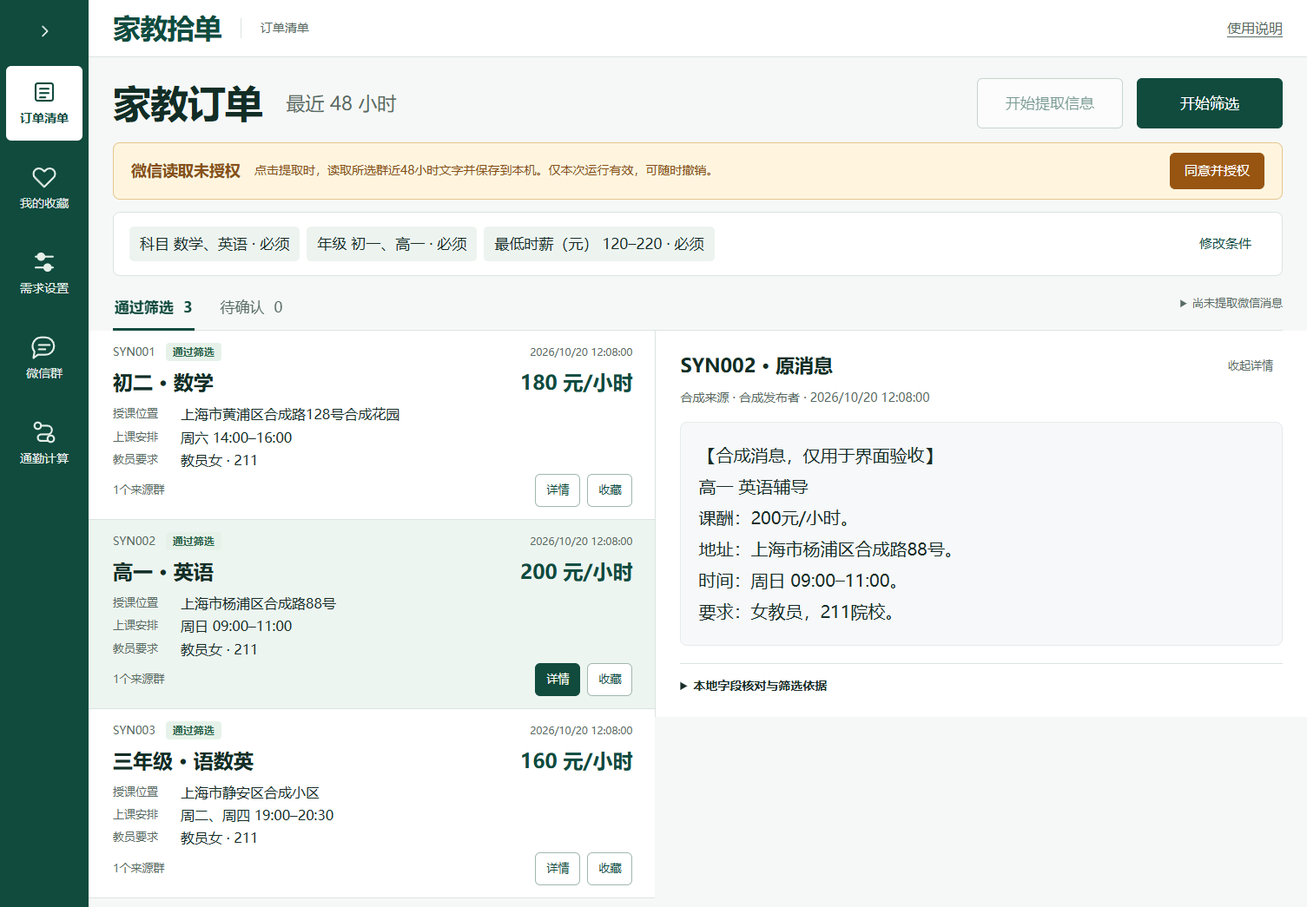
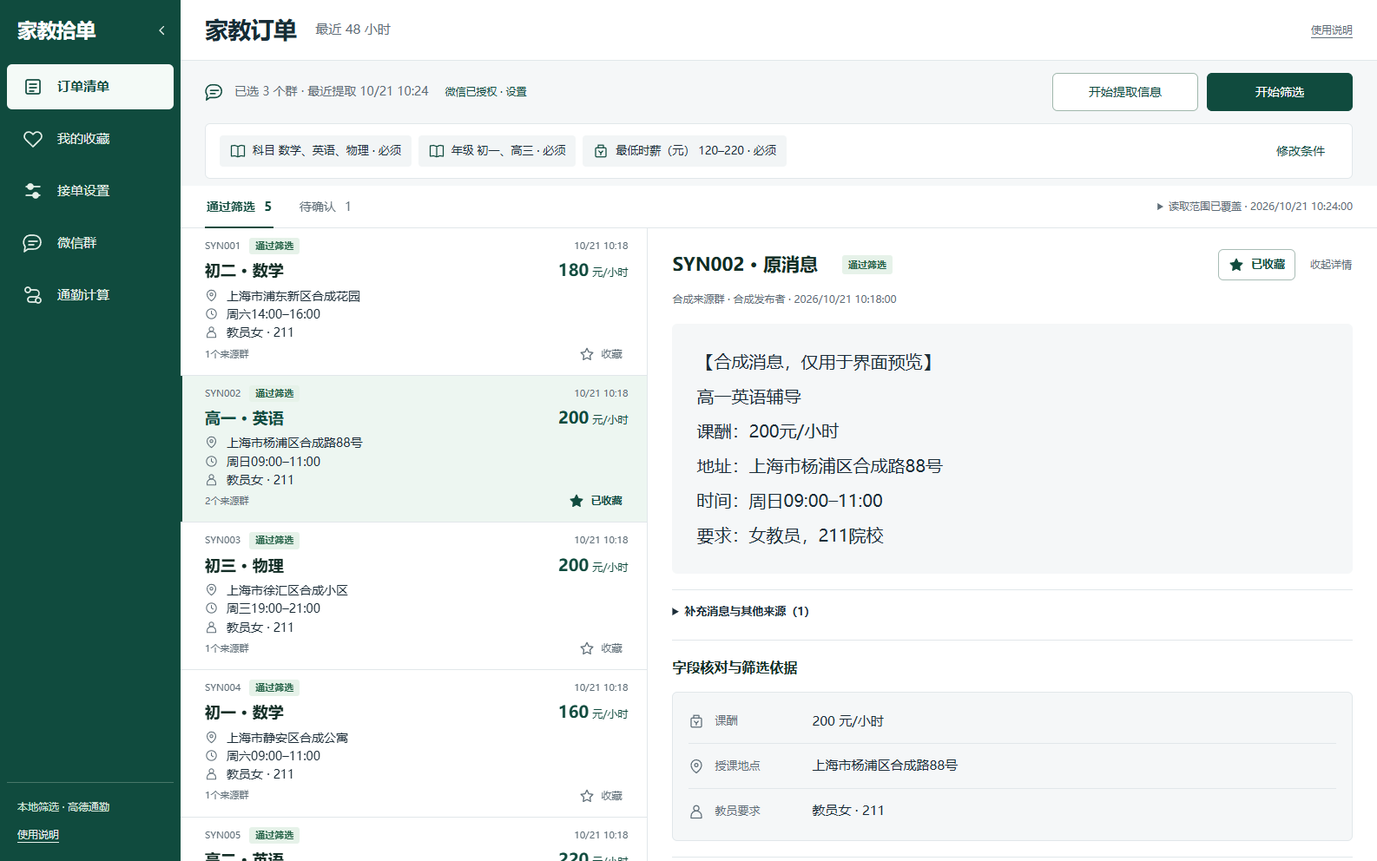
Release v0.2.4-rc.2 with reader-first order workbench

diff --git a/app/static/app.js b/app/static/app.js
@@ -7,7 +7,7 @@ const stateNames={complete:'读取范围已覆盖',incomplete:'采集不完整',
 const readStateName=report=>['complete','incomplete'].includes(report.state)&&(report.count>0||report.groups?.some(g=>g.count>0))?'已读取':(stateNames[report.state]||report.state);
 const messageNames={received:'等待解析',error:'解析失败',unparsed:'此类型未解析',processed:'已解析',ignored:'普通聊天'};
 let state={},view='orders',bucket='matched',data=[],favoriteData=[],selected=null,timer=null;
-let stopping=false,taskStarting=false,taskKind=null,authorizationSaving=false,ordersRequest=0,favoritesRequest=0,stateRequest=0;
+let stopping=false,taskStarting=false,taskKind=null,authorizationSaving=false,ordersRequest=0,favoritesRequest=0,stateRequest=0,wechatSettingsOpen=false;
 const favoriteSaving=new Set();
 let regions=[],regionIndex={},selectedRegions=[],selectedGroups=new Set(),groupCatalog=[],lastCatalog='',groupSaving=false;
 const subjects=['全科','作业辅导','语文','数学','英语','物理','化学','生物','历史','地理','政治','科学'];
@@ -16,6 +16,21 @@ const fact=(order,key)=>order.facts[key]?.value;
 const arr=value=>Array.isArray(value)?value.join('、'):value??'';
 const split=value=>String(value).split(/[,，、;；\n]/).map(x=>x.trim()).filter(Boolean);
 const formatTime=value=>value?new Date(value).toLocaleString('zh-CN',{timeZone:'Asia/Shanghai',hour12:false}):'发布时间待确认';
+const compactTime=value=>value?new Date(value).toLocaleString('zh-CN',{timeZone:'Asia/Shanghai',month:'2-digit',day:'2-digit',hour:'2-digit',minute:'2-digit',hour12:false}):'时间待确认';
+function uiIcon(name){
+  const paths={location:'<path d="M20 10c0 6-8 12-8 12S4 16 4 10a8 8 0 1 1 16 0Z"/><circle cx="12" cy="10" r="2.5"/>',clock:'<circle cx="12" cy="12" r="9"/><path d="M12 7v5l3 2"/>',person:'<circle cx="12" cy="7" r="4"/><path d="M4 22v-3a8 8 0 0 1 16 0v3Z"/>',star:'<path d="m12 3 2.8 5.8 6.4.9-4.6 4.5 1.1 6.4-5.7-3-5.7 3 1.1-6.4-4.6-4.5 6.4-.9Z"/>',book:'<path d="M12 5C9 3 5 3 2 4v16c3-1 7-1 10 1 3-2 7-2 10-1V4c-3-1-7-1-10 1v16"/>',pay:'<rect x="4" y="7" width="16" height="14" rx="2"/><path d="M8 7V3h8v4M9 12l3 3 3-3M12 15v3"/>',filter:'<path d="M3 5h18l-7 8v7l-4-2v-5Z"/>'};
+  return '<svg class="ui-icon" viewBox="0 0 24 24" fill="none" stroke="currentColor" stroke-width="1.7" stroke-linecap="round" stroke-linejoin="round" aria-hidden="true">'+(paths[name]||paths.book)+'</svg>';
+}
+function favoriteButton(order){
+  const enabled=Boolean(order.favorite_at),label=enabled?'取消收藏':'收藏';
+  return '<button type="button" class="favorite-button" data-favorite="'+esc(order.id)+'" data-enabled="'+!enabled+'" aria-pressed="'+enabled+'" aria-label="'+label+'订单 '+esc(order.reference||'无单号')+'" title="'+label+'"'+(state.busy||taskStarting||favoriteSaving.has(order.id)?' disabled':'')+'>'+uiIcon('star')+(enabled?'已收藏':'收藏')+'</button>';
+}
+function priceMarkup(order){
+  for(const [key,unit] of [['hourly_rate','元/小时'],['lesson_rate','元/次'],['monthly_rate','元/月']]){
+    if(fact(order,key)!=null)return esc(pretty(fact(order,key)))+'<span class="money-unit">'+unit+'</span>';
+  }
+  return esc(price(order));
+}
 function syncTabs(){
   $$('[data-bucket]').forEach(b=>{
     const active=b.dataset.bucket===bucket;
@@ -64,6 +79,9 @@ async function action(fn,button){
 function savedCounts(){return state.selected_counts||state.counts||{}}
 function renderWeChatAuthorization(){
   const authorized=state.wechat_authorization?.authorized===true;
+  $('#wechat-settings-toggle').hidden=!authorized;
+  $('#wechat-settings-toggle').setAttribute('aria-expanded',String(wechatSettingsOpen));
+  $('#wechat-authorization').hidden=!['orders','groups'].includes(view)||(view==='orders'&&authorized&&!wechatSettingsOpen);
   $('#wechat-authorization').classList.toggle('warn',!authorized);
   $('#wechat-authorization-status').textContent=authorized?'微信已授权 · 仅本次运行':'微信读取未授权';
   $('#connection').hidden=!authorized;
@@ -131,7 +149,10 @@ async function refreshState(){
 }
 function renderSummary(){
   const rules=state.preferences?.rules||[];
-  $('#rule-summary').innerHTML=rules.length?rules.map(r=>'<span class="chip">'+esc(names[r.field]||r.field)+' '+esc(r.field==='location'?r.value.map(code=>regionIndex[code]?.label||code).join('、'):pretty(r.value))+' · '+(r.mode==='must'?'必须':'优先')+'</span>').join(''):'<span class="muted">尚未设置需求</span>';
+  const ruleIcon=field=>field==='location'?'location':field.endsWith('_rate')?'pay':field==='subject'||field==='grade'?'book':'filter';
+  $('#rule-summary').innerHTML=rules.length?rules.map(r=>'<span class="chip">'+uiIcon(ruleIcon(r.field))+'<span>'+esc(names[r.field]||r.field)+' '+esc(r.field==='location'?r.value.map(code=>regionIndex[code]?.label||code).join('、'):pretty(r.value))+' · '+(r.mode==='must'?'必须':'优先')+'</span></span>').join(''):'<span class="muted">尚未设置需求</span>';
+  const latest=state.scans?.[0];
+  $('#source-context-text').textContent=state.groups?.length?'已选 '+state.groups.length+' 个群'+(latest?.end?' · 最近提取 '+compactTime(latest.end):' · 尚未提取信息'):'尚未选择微信群';
 }
 function renderScans(){
   const scan=state.scans?.[0];
@@ -159,8 +180,8 @@ async function setWeChatAuthorization(authorized){
   }finally{authorizationSaving=false;syncTaskControls()}
 }
 const sidebarMedia=window.matchMedia('(max-width:650px)');
-let sidebarCollapsed=true;
-try{sidebarCollapsed=localStorage.getItem('tutor-sidebar-collapsed')!=='0'}catch{}
+let sidebarCollapsed=false;
+try{sidebarCollapsed=localStorage.getItem('tutor-sidebar-collapsed')==='1'}catch{}
 function syncSidebarLayout(){
   const mobile=sidebarMedia.matches;
   $('.app-shell').classList.toggle('sidebar-collapsed',!mobile&&sidebarCollapsed);
@@ -214,11 +235,13 @@ setSidebarOpen(false);
 async function go(next){
   if(!['orders','favorites','preferences','groups','travel'].includes(next))next='orders';
   view=next;selected=null;
-  $('#page-context').textContent={orders:'订单清单',favorites:'我的收藏',preferences:'需求设置',groups:'微信群',travel:'通勤计算'}[next];
+  $('#page-context').textContent={orders:'家教订单',favorites:'我的收藏',preferences:'接单设置',groups:'微信群',travel:'通勤计算'}[next];
+  $('#page-subtitle').hidden=next!=='orders';
   const activeView=$('#view-'+next),heading=activeView.querySelector('.heading-row')||activeView.querySelector('h1');
   if(['orders','groups'].includes(next))heading.insertAdjacentElement('afterend',$('#wechat-authorization'));
   if(['travel','favorites'].includes(next))heading.insertAdjacentElement('afterend',$('#travel-authorization'));
   $('#wechat-authorization').hidden=!['orders','groups'].includes(next);
+  renderWeChatAuthorization();
   $('#travel-authorization').hidden=!['travel','favorites'].includes(next);
   setSidebarOpen(false);
   $$('.view').forEach(el=>el.hidden=el.id!=='view-'+next);
@@ -249,14 +272,14 @@ function teachingLocation(order){
 }
 function table(orders,favorites=false){
   return '<div class="order-list" aria-label="'+(favorites?'收藏订单':'订单列表')+'">'+orders.map(o=>{
-    const match=o.match;
-    const changed=match.bucket==='rejected';
+    const match=o.match,changed=match.bucket==='rejected';
     const badge=o.status==='closed'?'已出 / 已结束':o.expired?'已超过48小时':changed?'不符合当前条件':match.bucket==='matched'?'通过筛选':'待确认';
     const issues=changed?[o.status==='closed'?'原消息标明此单已出或已结束':'当前条件已变化，请重新核对',...match.conflicts]:match.unknowns;
-  const sources=new Set(o.sources.map(s=>s.group)).size;
+    const sources=new Set(o.sources.map(s=>s.group)).size;
     const locationNote=match.location_status==='unconfirmed'?'<span class="cell-sub attention-text">地区待核对 · 尚未通过</span>':'';
     const secondary=[fact(o,'weekly_sessions')!=null?pretty(fact(o,'weekly_sessions'))+'次/周':'',fact(o,'duration_hours')!=null?pretty(fact(o,'duration_hours'))+'小时/次':''].filter(Boolean).join(' · ');
-    return '<article class="order-item'+(selected===o.id?' selected':'')+'" data-order-row="'+esc(o.id)+'"><div class="order-meta"><span class="reference">'+esc(o.reference||'未提供单号')+'</span><span class="badge '+(match.bucket==='matched'&&!o.expired&&o.status!=='closed'?'':'pending')+'">'+esc(badge)+'</span><time>'+esc(formatTime(o.updated_at))+'</time></div><div class="order-title"><h2>'+esc(title(o))+'</h2><strong class="money">'+esc(price(o))+'</strong></div><dl class="order-facts"><div><dt>授课位置</dt><dd class="teaching-location">'+esc(teachingLocation(o))+locationNote+'</dd></div><div><dt>上课安排</dt><dd>'+esc(fact(o,'schedule')?pretty(fact(o,'schedule')):'具体时段待核对')+(secondary?'<span class="cell-sub">'+esc(secondary)+'</span>':'')+'</dd></div><div><dt>教员要求</dt><dd>'+esc(requirements(o))+'</dd></div></dl>'+(fact(o,'focus_subjects')?'<p class="cell-sub">侧重'+esc(arr(fact(o,'focus_subjects')))+'</p>':'')+(issues.length||o.expired?'<p class="order-issues">'+esc([o.expired?'已超过48小时，请确认是否仍可接单':'',...issues].filter(Boolean).join('；'))+'</p>':'')+(o.favorite_at?(window.TutorTravel?.summary(o.id)||''):'')+'<div class="order-bottom"><span class="cell-sub">'+esc([fact(o,'student_gender')?'学员'+fact(o,'student_gender'):'',fact(o,'students_count')?fact(o,'students_count')+'名学员':'',sources+'个来源群',o.possible_duplicates.length?'有疑似重复单':''].filter(Boolean).join(' · '))+'</span><div class="cell-actions"><button data-detail="'+esc(o.id)+'" data-favorites="'+favorites+'" aria-expanded="'+(selected===o.id)+'">详情</button>'+(favorites&&o.favorite_at?'<button data-travel-open="'+esc(o.id)+'" data-travel-favorites="true">计算通勤</button>':'')+'<button data-favorite="'+esc(o.id)+'" data-enabled="'+!o.favorite_at+'"'+(state.busy||taskStarting?' disabled':'')+'>'+(o.favorite_at?'取消收藏':'收藏')+'</button></div></div></article>';
+    const detail='<button type="button" class="order-open" data-detail="'+esc(o.id)+'" data-favorites="'+favorites+'" aria-expanded="'+(selected===o.id)+'" aria-label="查看 '+esc(o.reference||'无单号')+' '+esc(title(o))+' 原文">'+esc(title(o))+'</button>';
+    return '<article class="order-item'+(selected===o.id?' selected':'')+'" data-order-row="'+esc(o.id)+'"><div class="order-meta"><span class="reference">'+esc(o.reference||'未提供单号')+'</span><span class="badge '+(match.bucket==='matched'&&!o.expired&&o.status!=='closed'?'':'pending')+'">'+esc(badge)+'</span><time title="'+esc(formatTime(o.updated_at))+'">'+esc(compactTime(o.updated_at))+'</time></div><div class="order-title"><h2>'+detail+'</h2><strong class="money">'+priceMarkup(o)+'</strong></div><dl class="order-facts"><div><dt>'+uiIcon('location')+'<span class="sr-only">授课位置</span></dt><dd class="teaching-location">'+esc(teachingLocation(o))+locationNote+'</dd></div><div><dt>'+uiIcon('clock')+'<span class="sr-only">上课安排</span></dt><dd>'+esc(fact(o,'schedule')?pretty(fact(o,'schedule')):'具体时段待核对')+(secondary?'<span class="cell-sub">'+esc(secondary)+'</span>':'')+'</dd></div><div><dt>'+uiIcon('person')+'<span class="sr-only">教员要求</span></dt><dd>'+esc(requirements(o))+'</dd></div></dl>'+(fact(o,'focus_subjects')?'<p class="cell-sub">侧重'+esc(arr(fact(o,'focus_subjects')))+'</p>':'')+(issues.length||o.expired?'<p class="order-issues">'+esc([o.expired?'已超过48小时，请确认是否仍可接单':'',...issues].filter(Boolean).join('；'))+'</p>':'')+(o.favorite_at?(window.TutorTravel?.summary(o.id)||''):'')+'<div class="order-bottom"><span class="cell-sub">'+esc([fact(o,'student_gender')?'学员'+fact(o,'student_gender'):'',fact(o,'students_count')?fact(o,'students_count')+'名学员':'',sources+'个来源群',o.possible_duplicates.length?'有疑似重复单':''].filter(Boolean).join(' · '))+'</span><div class="cell-actions">'+(favorites&&o.favorite_at?'<button data-travel-open="'+esc(o.id)+'" data-travel-favorites="true">计算通勤</button>':'')+favoriteButton(o)+'</div></div></article>';
   }).join('')+'</div>';
 }
 async function loadOrders(){
@@ -298,11 +321,14 @@ function renderDetail(id,favorites=false,scroll=true){
   target.hidden=false;
   const primary=order.sources.find(source=>!source.is_update)||order.sources[0];
   const rawSource=source=>'<article class="source"><p class="muted">'+esc(source.group)+' · '+esc(source.sender)+' · '+esc(formatTime(source.sent_at))+'</p><div class="raw">'+esc(source.text)+'</div></article>';
-  target.innerHTML='<section class="detail-panel"><div class="heading-row"><h2>'+esc(order.reference||'无单号')+' · 原消息</h2><button data-close-detail="'+(favorites?'favorite':'order')+'">收起详情</button></div>'+caution+'<div class="order-original">'+(primary?rawSource(primary):'<p>原消息暂不可用</p>')+'</div>'+(order.sources.length>1?'<details><summary>补充消息与其他来源（'+(order.sources.length-1)+'）</summary>'+order.sources.filter(source=>source!==primary).map(rawSource).join('')+'</details>':'')+'<details class="local-checks"><summary>本地字段核对与筛选依据</summary><ul>'+match.reasons.map(r=>'<li>'+esc(r)+'</li>').join('')+'</ul>'+'<table class="evidence-table"><thead><tr><th>字段</th><th>值</th><th>原文依据</th></tr></thead><tbody>'+Object.entries(order.facts).map(([key,f])=>'<tr><td>'+esc(state.labels?.[key]||key)+(f.mode==='prefer'?'（偏好）':'')+'</td><td>'+esc(pretty(f.value))+'</td><td>'+esc(f.evidence)+'</td></tr>').join('')+'</tbody></table></details>'+'</section>';
+  const badge=order.status==='closed'?'已出 / 已结束':order.expired?'已超过48小时':match.bucket==='matched'?'通过筛选':match.bucket==='pending'?'待确认':'不符合当前条件';
+  const summary='<dl class="reader-facts"><div><dt>'+uiIcon('pay')+'课酬</dt><dd>'+esc(price(order))+'</dd></div><div><dt>'+uiIcon('location')+'授课地点</dt><dd>'+esc(teachingLocation(order))+'</dd></div><div><dt>'+uiIcon('person')+'教员要求</dt><dd>'+esc(requirements(order))+'</dd></div></dl>';
+  target.innerHTML='<section class="detail-panel"><div class="heading-row"><div class="reader-title"><h2>'+esc(order.reference||'无单号')+' · 原消息</h2><span class="badge '+(match.bucket==='matched'&&!order.expired&&order.status!=='closed'?'':'pending')+'">'+esc(badge)+'</span></div><div class="reader-actions">'+favoriteButton(order)+'<button data-close-detail="'+(favorites?'favorite':'order')+'">收起详情</button></div></div>'+caution+'<div class="order-original">'+(primary?rawSource(primary):'<p>原消息暂不可用</p>')+'</div>'+(order.sources.length>1?'<details><summary>补充消息与其他来源（'+(order.sources.length-1)+'）</summary>'+order.sources.filter(source=>source!==primary).map(rawSource).join('')+'</details>':'')+'<section class="reader-checks" aria-label="字段核对与筛选依据"><h3>字段核对与筛选依据</h3>'+summary+'<details class="local-checks"><summary>查看完整字段与原文依据</summary><ul>'+match.reasons.map(r=>'<li>'+esc(r)+'</li>').join('')+'</ul>'+'<table class="evidence-table"><thead><tr><th>字段</th><th>值</th><th>原文依据</th></tr></thead><tbody>'+Object.entries(order.facts).map(([key,f])=>'<tr><td>'+esc(state.labels?.[key]||key)+(f.mode==='prefer'?'（偏好）':'')+'</td><td>'+esc(pretty(f.value))+'</td><td>'+esc(f.evidence)+'</td></tr>').join('')+'</tbody></table></details></section></section>';
+
   $$('[data-order-row]').forEach(row=>{const active=row.dataset.orderRow===id;row.classList.toggle('selected',active);row.querySelector('[data-detail]')?.setAttribute('aria-expanded',String(active))});
   target.insertAdjacentHTML('beforeend',window.TutorTravel?.detail(id,favorites,Boolean(order.favorite_at))||'');
   if(scroll){
-    if(window.matchMedia('(max-width:1099px)').matches)target.scrollIntoView({behavior:'auto',block:'start'});
+    if(window.matchMedia('(max-width:999px)').matches)target.scrollIntoView({behavior:'auto',block:'start'});
     else target.closest('.order-reader').scrollTop=0;
     const heading=target.querySelector('h2');heading.tabIndex=-1;heading.focus({preventScroll:true});
   }
@@ -396,6 +422,7 @@ async function changeGroups(method,body){
 }
 document.addEventListener('click',event=>{
   const button=event.target.closest('button');if(!button)return;
+  if(button.id==='wechat-settings-toggle'){wechatSettingsOpen=!wechatSettingsOpen;renderWeChatAuthorization();return}
   if(button.dataset.view)return action(()=>go(button.dataset.view),button);
   if(button.dataset.openScan){const panel=$('.scan-panel');panel.open=true;panel.scrollIntoView({block:'nearest'});$('#scan-summary').focus();return}
   if(button.dataset.bucket){bucket=button.dataset.bucket;selected=null;syncTabs();return action(loadOrders)}

diff --git a/app/static/app.css b/app/static/app.css
@@ -14,3 +14,21 @@
 @media(min-width:1100px){h1{font-size:44px}.workspace-brand{font-size:32px}.workspace-header>a{font-size:16px}.heading-row{margin-bottom:16px}.heading-row>.actions button{min-height:58px;padding-inline:24px;font-size:17px}.heading-row p{font-size:20px}.connection{grid-template-columns:auto minmax(0,1fr) auto;gap:16px;margin-bottom:14px;padding:10px 20px;min-height:66px;align-items:center}.connection>strong{grid-column:1;grid-row:1;font-size:18px}.connection>p{grid-column:2;max-width:none;font-size:14px}.connection>.actions{grid-column:3;grid-row:1/4}.summary-row{min-height:74px;margin-bottom:10px}.chip{font-size:15px}.tabs button{font-size:17px;min-height:52px}.order-item{padding-block:16px}.order-meta{margin-bottom:6px}.order-title{margin-bottom:8px}.order-title h2{font-size:23px}.money{font-size:23px}.order-facts{font-size:16px}.order-bottom{margin-top:8px}.raw{font-size:20px;line-height:1.8}.nav-icon{width:30px;height:30px}.sidebar-collapsed .nav-label{font-size:14px}.source>.muted{font-size:14px}}
 @media(min-width:1100px){.connection>.actions{grid-row:1}.heading-row>div:first-child{align-items:center;gap:28px}.heading-row p{font-size:22px;line-height:1.4}.heading-row>.actions{gap:16px}#scan,#filter{min-width:168px}.chip{font-size:17px;padding:6px 12px}.order-item{padding-block:14px}.order-meta{line-height:1.45}.order-meta .badge{padding-block:2px}.order-title{margin-bottom:6px}.order-facts{line-height:1.45}.order-facts>div{margin-block:3px}.order-bottom{margin-top:4px}}
 @media(prefers-reduced-motion:no-preference){button{transition:background-color 150ms ease-out,border-color 150ms ease-out}.order-item{transition:background-color 150ms ease-out}.site-sidebar{transition:transform 180ms cubic-bezier(.16,1,.3,1)}.spinner{animation:spinner-turn .8s linear infinite}@keyframes spinner-turn{to{transform:rotate(1turn)}}}
+
+/* Approved C: a compact order inbox with a wider original-message reader. */
+:root{--bg:#f5f7f8;--text:#1c2d38;--muted:#5e6d77;--line:#e1e7ea;--soft:#edf5f1;--raw-bg:#f5f7f8;--radius:6px;font-size:14px}
+.sr-only{position:absolute;width:1px;height:1px;padding:0;margin:-1px;overflow:hidden;clip-path:inset(50%);white-space:nowrap;border:0}
+h1{font-size:28px}h2{font-size:20px}h3{font-size:17px}button{min-height:38px;padding:7px 14px}input,select,textarea{min-height:42px;padding:9px 12px;border-color:#a8bcb5}.foot,.cell-sub{font-size:12px}
+.app-shell{grid-template-columns:208px minmax(0,1fr)}.site-sidebar{padding:14px 8px;gap:18px}.sidebar-heading{padding-left:12px;min-height:42px;gap:4px}.brand{font-size:23px;letter-spacing:-.025em}.sidebar-toggle{width:28px;min-height:32px;padding:5px}.sidebar-toggle svg{width:18px;height:18px}.site-sidebar nav{gap:8px}.site-sidebar .nav{min-height:52px;padding:12px 18px;gap:16px;font-size:15px}.site-sidebar .nav.active{background:#f4faf7}.nav-icon{width:24px;height:24px}.sidebar-foot{padding:18px 12px 6px;font-size:12px;border-color:#477769}.app-shell.sidebar-collapsed{grid-template-columns:92px minmax(0,1fr)}.sidebar-collapsed .site-sidebar{padding:12px 6px;gap:18px}.sidebar-collapsed .sidebar-heading{padding:0}.sidebar-collapsed .site-sidebar .nav{min-height:76px;padding:10px 2px;gap:6px}.sidebar-collapsed .nav-label{font-size:12px}
+.workspace-header{height:70px;padding:0 28px;gap:22px}.workspace-brand{display:none}.workspace-header #page-context{border:0;padding:0;font-size:27px;font-weight:700;letter-spacing:-.025em;color:#172c35}.workspace-header #page-subtitle{font-size:15px;color:var(--muted)}.workspace-header>a{font-size:12px}main{padding:0 28px 32px;max-width:none;min-height:calc(100dvh - 122px)}.view:not(#view-orders){padding-top:26px}footer{padding:16px 28px;font-size:12px}
+.orders-heading{min-height:72px;margin:0;gap:12px}.orders-heading .actions{margin-left:auto;gap:10px}.orders-heading .actions button{min-height:44px;min-width:128px;padding:9px 16px;font-size:14px}.source-context{display:flex;align-items:center;gap:12px;color:var(--muted);font-size:14px;min-width:0}.source-context>svg{width:22px;height:22px;color:var(--nav);flex:none}.source-context>span{overflow-wrap:anywhere}
+.connection{padding:12px 16px;column-gap:20px;row-gap:5px;margin-bottom:14px;min-height:0}.connection>strong{font-size:14px}.connection>p{font-size:12px}.connection:not(.warn){grid-template-columns:auto minmax(0,1fr) auto;padding:6px 0;border:0;background:transparent;align-items:center}.connection:not(.warn)>strong{font-size:12px}.connection:not(.warn)>#connection{grid-column:2;grid-row:1}.connection:not(.warn)>.actions{grid-column:3;grid-row:1}.connection:not(.warn) button{min-height:30px;padding:4px 8px;font-size:12px;border-color:transparent;background:transparent}#workflow-hint{font-size:12px;margin:0 0 12px}.processing{margin:14px 0;padding:10px 16px}.processing button{margin-left:auto}
+.summary-row{min-height:64px;padding:12px 16px;margin:0 0 8px}.chips{gap:8px}.chip{display:inline-flex;align-items:center;gap:8px;font-size:13px;padding:7px 12px;border-radius:4px;background:#f2f5f6}.chip .ui-icon{color:var(--nav)}.results-toolbar{margin-inline:-28px;padding-inline:28px;background:var(--paper);gap:12px}.results-toolbar>.scan-panel{margin:0;font-size:12px}.scan-panel[open]{padding-block:12px}.tabs button{min-height:48px;padding:11px 2px;font-size:14px}.tabs button[aria-selected=true]::after{height:2px}
+.order-workspace{grid-template-columns:minmax(360px,.39fr) minmax(0,.61fr);background:var(--paper);min-height:calc(100dvh - 264px)}.order-item{position:relative;padding:14px 22px 13px 28px}.order-item.selected{background:#edf6f1;box-shadow:inset 2px 0 var(--nav)}.order-meta{gap:10px;margin-bottom:5px;font-size:11px}.order-meta time{font-size:11px}.badge{font-size:11px;padding:2px 7px;border-radius:3px}.order-title{gap:12px;margin-bottom:5px}.order-title h2{font-size:18px;line-height:1.45;min-width:0}.order-open{border:0;border-radius:2px;background:transparent;color:inherit;font-size:inherit;font-weight:700;min-height:0;padding:0;text-align:left;line-height:inherit}.order-open:hover{background:transparent;color:var(--nav)}.money{font-size:19px;white-space:nowrap}.money-unit{font-size:12px;font-weight:500;margin-left:4px}.order-facts{font-size:13px;line-height:1.6}.order-facts>div{grid-template-columns:16px minmax(0,1fr);gap:9px;margin:3px 0}.order-facts dt{padding-top:3px}.order-facts dt .ui-icon{width:15px;height:15px}.order-issues{padding:7px 10px;margin:8px 0 0;font-size:12px}.order-bottom{margin-top:4px;gap:6px}.order-bottom>.cell-sub{font-size:11px}.cell-actions button{display:inline-flex;align-items:center;justify-content:center;gap:7px;min-height:30px;padding:4px 6px;font-size:12px;border-color:transparent;background:transparent;color:var(--muted)}.cell-actions button:hover{color:var(--nav);background:var(--good-bg)}.favorite-button[aria-pressed=true]{color:var(--nav);font-weight:600}.favorite-button[aria-pressed=true] .ui-icon{fill:currentColor}.ui-icon{display:inline-block;width:18px;height:18px;flex:none;vertical-align:middle}
+.order-reader{top:0;max-height:100dvh;min-height:calc(100dvh - 264px);padding:24px 28px}.reader-placeholder{padding:90px 12px}.reader-placeholder h2{font-size:18px}.detail-panel>.heading-row{margin-bottom:12px;align-items:center;gap:10px}.detail-panel h2{font-size:21px;flex:initial}.reader-title{display:flex;align-items:center;gap:12px;flex-wrap:wrap}.reader-actions{display:flex;gap:8px;align-items:center;margin-left:auto;flex-wrap:wrap}.detail-panel>.heading-row .favorite-button{display:inline-flex;gap:8px;align-items:center;min-height:36px;padding:6px 11px;border:1px solid #a8bcb5;color:var(--nav)}.detail-panel>.heading-row [data-close-detail]{min-height:32px;padding:4px 0 4px 8px;font-size:12px;border-color:transparent;background:transparent;color:var(--muted)}.source{margin-bottom:18px}.source>.muted{font-size:12px;margin-bottom:18px}.raw{font-size:18px;line-height:2;padding:24px 28px;background:var(--raw-bg);border:0}.detail-panel summary{font-size:13px}.detail-panel ul{font-size:13px}.reader-checks{margin-top:22px;border-top:1px solid var(--line);padding-top:18px}.reader-checks>h3{font-size:14px;margin:0 0 14px}.reader-facts{margin:0;padding:8px 18px;background:var(--raw-bg);border:1px solid var(--line);border-radius:var(--radius)}.reader-facts>div{display:grid;grid-template-columns:128px minmax(0,1fr);gap:14px;padding:13px 0;border-bottom:1px solid var(--line)}.reader-facts>div:last-child{border-bottom:0}.reader-facts dt{display:flex;align-items:center;gap:12px;color:var(--muted);font-size:13px}.reader-facts dd{margin:0;font-size:15px;overflow-wrap:anywhere}.local-checks>summary{font-weight:400;color:var(--muted)}.inline-alert{font-size:13px;padding:10px 14px}.empty h2{font-size:19px}.empty p{font-size:13px}
+#preferences-form{max-width:1040px}legend{font-size:17px}label{font-size:13px}.choice-grid{gap:9px}.group-manager>h1{font-size:28px}.group-add{padding-top:0}.group-list-heading h2,.travel-setup>summary,.travel-origin-section h2{font-size:17px}.travel-next p,#travel-origin-status,#travel-key-guide{font-size:13px}.sticky-actions{position:static}
+#wechat-settings-toggle{min-height:30px;padding:4px 6px;border-color:transparent;background:transparent;font-size:12px;color:var(--nav)}.source-context{flex-wrap:wrap}.order-item{padding-block:11px}.order-meta{margin-bottom:3px;line-height:1.4}.order-title{margin-bottom:3px}.order-facts{font-size:14px;line-height:1.45}.order-facts>div{margin-block:1px}.order-facts dt{font-size:0;line-height:0;padding-top:2px}.order-bottom{margin-top:0}.cell-actions button{min-height:26px;padding-block:2px}.raw{font-size:20px;line-height:2}.reader-checks>h3{font-size:16px}
+@media(min-width:651px) and (max-width:1199px){.app-shell{grid-template-columns:184px minmax(0,1fr)}.brand{font-size:20px}.site-sidebar .nav{padding-inline:12px;gap:12px}.order-workspace{grid-template-columns:minmax(310px,.43fr) minmax(0,.57fr)}.order-item{padding-inline:20px}.order-reader{padding:22px}.raw{font-size:16px;padding:20px}.reader-facts>div{grid-template-columns:100px minmax(0,1fr)}.orders-heading{padding-block:12px}.source-context{font-size:12px}.orders-heading .actions button{min-width:104px}}
+@media(min-width:1000px){.order-workspace{margin-inline:-28px}.order-reader{position:sticky;border-left:1px solid var(--line)}}
+@media(max-width:999px){.order-workspace{grid-template-columns:1fr;margin-inline:0;min-height:0;border:1px solid var(--line);border-radius:var(--radius)}.order-reader{position:static;max-height:none;min-height:0;border-left:0;padding:24px;border-top:1px solid var(--line)}.order-reader:not(:has(.detail-panel)){padding:0;border-top:0}.results-toolbar{margin-inline:0;padding-inline:0;background:transparent}.connection:not(.warn){grid-template-columns:1fr auto}.connection:not(.warn)>#connection{grid-column:1;grid-row:2}.connection:not(.warn)>.actions{grid-column:2;grid-row:1/3}.raw{font-size:16px}.order-title h2{font-size:18px}}
+@media(max-width:650px){.app-shell{display:block}.site-sidebar{padding:18px 12px}.sidebar-heading{padding-left:8px}.brand{font-size:23px}.site-sidebar .nav{min-height:52px;font-size:15px}.workspace-header{height:62px;padding:10px 16px;gap:14px}.workspace-brand{display:block;font-size:20px}.workspace-header #page-context,.workspace-header #page-subtitle{display:none}main{padding:0 16px 24px}h1{font-size:25px}.view:not(#view-orders){padding-top:22px}.orders-heading{padding:16px 0;gap:14px}.orders-heading .actions{width:100%;margin:0}.orders-heading .actions button{flex:1 1 auto;padding-inline:12px;min-height:44px}.source-context{font-size:13px}.connection{padding:12px;gap:8px}.connection>.actions button{min-height:44px}.connection:not(.warn){display:flex;padding:8px 0;align-items:flex-start}.connection:not(.warn) button{min-height:40px}.summary-row{padding:10px;gap:8px}.summary-row>button{min-height:40px;font-size:12px}.chip{padding:5px 8px;font-size:12px}.chip .ui-icon{display:none}.results-toolbar{gap:0}.results-toolbar>.scan-panel{padding-bottom:10px}.tabs button{min-height:48px}.order-item{padding:14px 14px 12px}.order-meta{gap:7px}.order-meta time{width:auto;margin-left:auto}.order-title{gap:6px}.money{font-size:18px}.money-unit{font-size:12px}.cell-actions button{min-height:44px;padding-inline:8px}.order-reader{padding:22px 14px}.detail-panel>.heading-row{gap:10px}.detail-panel h2{font-size:19px}.reader-actions{margin-left:0;width:100%;justify-content:space-between}.detail-panel>.heading-row .favorite-button,.detail-panel>.heading-row [data-close-detail]{min-height:44px}.raw{font-size:15px;padding:16px;line-height:1.95}.reader-facts{padding:4px 12px}.reader-facts>div{grid-template-columns:90px minmax(0,1fr);gap:12px}.reader-facts dt{font-size:12px;gap:8px}.reader-facts dd{font-size:14px}.choice{min-height:44px}.sticky-actions{position:static}.sticky-actions>button,.group-actions button,.remove-group,.group-input-row button,.region-picker button{min-height:44px}footer{padding-inline:16px}}

diff --git a/app/static/index.html b/app/static/index.html
@@ -3,9 +3,9 @@
 <head><meta charset="UTF-8"><meta name="viewport" content="width=device-width, initial-scale=1"><title>家教拾单 · 我的家教机会</title><link rel="stylesheet" href="/static/app.css"><script src="/static/app.js" defer></script><script src="/static/travel.js" defer></script></head>
 <body>
 <div class="app-shell">
-<aside id="site-sidebar" class="site-sidebar" aria-label="侧边导航"><div class="sidebar-heading"><div class="brand">家教拾单</div><button id="collapse-sidebar" class="sidebar-toggle" type="button" aria-label="收起侧边栏" title="收起侧边栏" aria-expanded="true" aria-controls="sidebar-navigation"><svg viewBox="0 0 24 24" fill="none" stroke="currentColor" stroke-width="1.8" stroke-linecap="round" stroke-linejoin="round" aria-hidden="true"><path d="m14 6-6 6 6 6"/></svg></button></div><nav id="sidebar-navigation" aria-label="主要导航"><button class="nav active" data-view="orders" aria-label="订单清单" title="订单清单" aria-current="page"><svg class="nav-icon" viewBox="0 0 24 24" fill="none" stroke="currentColor" stroke-width="1.7" stroke-linecap="round" stroke-linejoin="round" aria-hidden="true"><rect x="4" y="4" width="16" height="16" rx="2"/><path d="M8 9h8M8 13h8M8 17h5"/></svg><span class="nav-label">订单清单</span></button><button class="nav" data-view="favorites" aria-label="我的收藏" title="我的收藏"><svg class="nav-icon" viewBox="0 0 24 24" fill="none" stroke="currentColor" stroke-width="1.7" stroke-linecap="round" stroke-linejoin="round" aria-hidden="true"><path d="M20.5 5.5a5 5 0 0 0-7.1 0L12 6.9l-1.4-1.4a5 5 0 0 0-7.1 7.1L12 21l8.5-8.4a5 5 0 0 0 0-7.1Z"/></svg><span class="nav-label">我的收藏</span></button><button class="nav" data-view="preferences" aria-label="需求设置" title="需求设置"><svg class="nav-icon" viewBox="0 0 24 24" fill="none" stroke="currentColor" stroke-width="1.7" stroke-linecap="round" stroke-linejoin="round" aria-hidden="true"><path d="M4 7h16M4 17h16"/><circle cx="9" cy="7" r="3" fill="currentColor"/><circle cx="15" cy="17" r="3" fill="currentColor"/></svg><span class="nav-label">需求设置</span></button><button class="nav" data-view="groups" aria-label="微信群" title="微信群"><svg class="nav-icon" viewBox="0 0 24 24" fill="none" stroke="currentColor" stroke-width="1.7" stroke-linecap="round" stroke-linejoin="round" aria-hidden="true"><path d="M21 11a8 8 0 0 1-8 8H6l-4 3 1-6a8 8 0 0 1 6-13h4a8 8 0 0 1 8 8Z"/><path d="M7 10h10M7 14h6"/></svg><span class="nav-label">微信群</span></button><button class="nav" data-view="travel" aria-label="通勤计算" title="通勤计算"><svg class="nav-icon" viewBox="0 0 24 24" fill="none" stroke="currentColor" stroke-width="1.7" stroke-linecap="round" stroke-linejoin="round" aria-hidden="true"><circle cx="6" cy="6" r="3"/><circle cx="18" cy="18" r="3"/><path d="M9 6h6a4 4 0 0 1 0 8H9a3 3 0 0 0 0 6h6"/></svg><span class="nav-label">通勤计算</span></button></nav><div class="sidebar-foot"><span>本地筛选 · 高德通勤</span><a href="/guide" target="_blank" rel="noopener">使用说明</a></div></aside>
+<aside id="site-sidebar" class="site-sidebar" aria-label="侧边导航"><div class="sidebar-heading"><div class="brand">家教拾单</div><button id="collapse-sidebar" class="sidebar-toggle" type="button" aria-label="收起侧边栏" title="收起侧边栏" aria-expanded="true" aria-controls="sidebar-navigation"><svg viewBox="0 0 24 24" fill="none" stroke="currentColor" stroke-width="1.8" stroke-linecap="round" stroke-linejoin="round" aria-hidden="true"><path d="m14 6-6 6 6 6"/></svg></button></div><nav id="sidebar-navigation" aria-label="主要导航"><button class="nav active" data-view="orders" aria-label="订单清单" title="订单清单" aria-current="page"><svg class="nav-icon" viewBox="0 0 24 24" fill="none" stroke="currentColor" stroke-width="1.7" stroke-linecap="round" stroke-linejoin="round" aria-hidden="true"><rect x="4" y="4" width="16" height="16" rx="2"/><path d="M8 9h8M8 13h8M8 17h5"/></svg><span class="nav-label">订单清单</span></button><button class="nav" data-view="favorites" aria-label="我的收藏" title="我的收藏"><svg class="nav-icon" viewBox="0 0 24 24" fill="none" stroke="currentColor" stroke-width="1.7" stroke-linecap="round" stroke-linejoin="round" aria-hidden="true"><path d="M20.5 5.5a5 5 0 0 0-7.1 0L12 6.9l-1.4-1.4a5 5 0 0 0-7.1 7.1L12 21l8.5-8.4a5 5 0 0 0 0-7.1Z"/></svg><span class="nav-label">我的收藏</span></button><button class="nav" data-view="preferences" aria-label="接单设置" title="接单设置"><svg class="nav-icon" viewBox="0 0 24 24" fill="none" stroke="currentColor" stroke-width="1.7" stroke-linecap="round" stroke-linejoin="round" aria-hidden="true"><path d="M4 7h16M4 17h16"/><circle cx="9" cy="7" r="3" fill="currentColor"/><circle cx="15" cy="17" r="3" fill="currentColor"/></svg><span class="nav-label">接单设置</span></button><button class="nav" data-view="groups" aria-label="微信群" title="微信群"><svg class="nav-icon" viewBox="0 0 24 24" fill="none" stroke="currentColor" stroke-width="1.7" stroke-linecap="round" stroke-linejoin="round" aria-hidden="true"><path d="M21 11a8 8 0 0 1-8 8H6l-4 3 1-6a8 8 0 0 1 6-13h4a8 8 0 0 1 8 8Z"/><path d="M7 10h10M7 14h6"/></svg><span class="nav-label">微信群</span></button><button class="nav" data-view="travel" aria-label="通勤计算" title="通勤计算"><svg class="nav-icon" viewBox="0 0 24 24" fill="none" stroke="currentColor" stroke-width="1.7" stroke-linecap="round" stroke-linejoin="round" aria-hidden="true"><circle cx="6" cy="6" r="3"/><circle cx="18" cy="18" r="3"/><path d="M9 6h6a4 4 0 0 1 0 8H9a3 3 0 0 0 0 6h6"/></svg><span class="nav-label">通勤计算</span></button></nav><div class="sidebar-foot"><span>本地筛选 · 高德通勤</span><a href="/guide" target="_blank" rel="noopener">使用说明</a></div></aside>
 <button id="nav-backdrop" class="nav-backdrop" type="button" aria-label="关闭导航" hidden></button>
-<div class="workspace"><header class="workspace-header"><button id="toggle-nav" type="button" aria-controls="site-sidebar" aria-expanded="false">菜单</button><span class="workspace-brand">家教拾单</span><span id="page-context">订单清单</span><a href="/guide" target="_blank" rel="noopener">使用说明</a></header>
+<div class="workspace"><header class="workspace-header"><button id="toggle-nav" type="button" aria-controls="site-sidebar" aria-expanded="false">菜单</button><span class="workspace-brand">家教拾单</span><span id="page-context">家教订单</span><span id="page-subtitle">最近 48 小时</span><a href="/guide" target="_blank" rel="noopener">使用说明</a></header>
 <main>
 <div id="notice" class="toast" role="status" hidden></div>
 <section id="travel-authorization" class="connection warn" aria-label="高德查询授权" hidden>
@@ -22,12 +22,12 @@
 </section>
 <div id="processing" class="processing" hidden><span id="processing-spinner" class="spinner" aria-hidden="true" hidden></span><span id="processing-text" role="status"></span><button id="stop-processing" type="button" hidden>停止</button></div>
 <section id="view-orders" class="view">
-<div class="heading-row"><div><h1>家教订单</h1><p class="muted">最近 48 小时</p></div><div class="actions"><button id="scan" type="button" disabled>开始提取信息</button><button id="filter" type="button" class="primary">开始筛选</button><button id="retry-process" hidden>重试筛选</button><button id="cancel" hidden>停止任务</button></div></div>
+<div class="heading-row orders-heading"><h1 class="sr-only">家教订单</h1><div class="source-context"><svg viewBox="0 0 24 24" fill="none" stroke="currentColor" stroke-width="1.7" stroke-linecap="round" stroke-linejoin="round" aria-hidden="true"><path d="M21 11a8 8 0 0 1-8 8H6l-4 3 1-6a8 8 0 0 1 6-13h4a8 8 0 0 1 8 8Z"/><path d="M7 10h10M7 14h6"/></svg><span id="source-context-text" role="status">尚未选择微信群</span><button id="wechat-settings-toggle" type="button" aria-controls="wechat-authorization" aria-expanded="false" hidden>微信已授权 · 设置</button></div><div class="actions"><button id="scan" type="button" disabled>开始提取信息</button><button id="filter" type="button" class="primary">开始筛选</button><button id="retry-process" hidden>重试筛选</button><button id="cancel" hidden>停止任务</button></div></div>
 <p id="workflow-hint" class="muted" role="status">先提取微信消息，再筛选已保存的信息。</p>
 
 <div class="summary-row"><div id="rule-summary" class="chips"></div><button data-view="preferences">修改条件</button></div>
 <div class="results-toolbar"><details class="scan-panel"><summary id="scan-summary">尚未提取微信消息</summary><div id="scan-reports"></div></details><div class="tabs" role="tablist" aria-label="筛选结果"><button role="tab" aria-selected="true" tabindex="0" data-bucket="matched">通过筛选 <span id="count-matched">0</span></button><button role="tab" aria-selected="false" tabindex="-1" data-bucket="pending">待确认 <span id="count-pending">0</span></button></div></div>
-<div class="order-workspace"><div id="orders-content"></div><div class="order-reader"><div class="reader-placeholder"><h2>选择订单，核对原文</h2><p>点击左侧「详情」查看完整消息与筛选依据。</p></div><div id="order-detail" hidden></div></div></div>
+<div class="order-workspace"><div id="orders-content"></div><div class="order-reader"><div class="reader-placeholder"><h2>选择订单，核对原文</h2><p>点击左侧订单标题，查看完整消息与筛选依据。</p></div><div id="order-detail" hidden></div></div></div>
 </section>
 <section id="view-favorites" class="view" hidden><div class="heading-row"><h1>我的收藏</h1></div><div class="order-workspace"><div id="favorites-content"></div><div class="order-reader"><div class="reader-placeholder"><h2>选择收藏，核对原文</h2><p>确认授课地点后，可逐条计算通勤。</p></div><div id="favorite-detail" hidden></div></div></div></section>
 

diff --git a/app/runtime.py b/app/runtime.py
@@ -3,7 +3,7 @@ import os
 import sys
 from pathlib import Path
 
-VERSION = '0.2.4-rc.1'
+VERSION = '0.2.4-rc.2'
 ROOT = Path(__file__).resolve().parent.parent
 
 

diff --git a/README.md b/README.md
@@ -8,7 +8,7 @@
 
 **直接运行：** 下载 [v0.2.3 Windows x64 运行包](https://github.com/Huoxixi/tutor-assistant/releases/download/v0.2.3/TutorAssistant-v0.2.3-windows-x64.zip)，完整解压后双击 `TutorAssistant.exe`，浏览器会自动打开。首次使用说明、数据位置和升级方式见 [Windows 运行包](docs/windows-release.md)。
 
-**微信兼容测试版：** [v0.2.4-rc.1](https://github.com/Huoxixi/tutor-assistant/releases/tag/v0.2.4-rc.1) 改为按界面能力和二进制特征适配微信4.1+ x64，支持常驻和折叠搜索入口。4.1.15.56尚待目标电脑实际读取验证；不能将特征识别通过视为所有版本读取成功。连接失败时可在启动窗口一键生成无聊天正文的兼容性诊断。
+**新版界面与微信兼容测试版：** [下载 v0.2.4-rc.2](https://github.com/Huoxixi/tutor-assistant/releases/download/v0.2.4-rc.2/TutorAssistant-v0.2.4-rc.2-windows-x64.zip)，采用深绿侧栏、紧凑订单列表与宽原文阅读区，展开显示课酬、地点和教员要求的核对摘要。兼容能力沿用 v0.2.4-rc.1，按界面能力和二进制特征适配微信4.1+ x64，支持常驻和折叠搜索入口。4.1.15.56尚待目标电脑实际读取验证；不能将特征识别通过视为所有版本读取成功。连接失败时可在启动窗口一键生成无聊天正文的兼容性诊断。
 
 ## 功能
 
@@ -17,7 +17,7 @@
 - **本地解析**：按单号和消息模板切单，识别科目、年级、地点、课酬、课时、教员要求等字段，保留原文依据。
 - **条件筛选**：支持性别、院校层次，以及薪资、科目、年级、多个教学地区。明确满足全部适用硬条件才算通过，缺失或不确定的要求保留为“待确认”。
 - **按单号去重**：相同单号合并显示，保留全部原消息来源；无单号记录不强行合并，最新版本冲突时待确认。
-- **原文与收藏**：点击详情直接查看这一单的原消息，支持本机长期收藏。
+- **原文与收藏**：点击订单标题直接查看这一单的原消息，支持本机长期收藏。
 - **进度与停止**：提取、筛选显示运行状态；可停止任务，保留已保存信息及已完成结果。
 - **可选高德通勤**：独立配置 Web 服务 Key 与地址查询授权，手动确认固定出发点，只对已收藏的订单逐条查询公交、步行或驾车路线，不改动原筛选结论。
 
@@ -88,7 +88,7 @@ py -3.13 -m venv .venv313
 
 ## 使用方法
 
-桌面默认使用带文字标签的窄导航，点击栏顶箭头可展开，再点箭头收起；同一浏览器会记住状态。订单页与收藏页采用左侧连续清单、右侧原消息的双栏布局，点击“详情”核对原文；窄屏与手机改为清单在前、原文在后的上下阅读。手机点击“菜单”打开侧边栏，点栏内箭头、遮罩或按 Escape 关闭；键盘 Tab 在展开的导航内循环，关闭后返回“菜单”。日常流程为：本地筛选 → 核对原文 → 收藏候选 → 从固定出发点逐条计算。场景分工见 [通勤计算使用流程](docs/commute-workflow.md)。
+桌面默认使用带文字标签的深绿导航，点击栏顶箭头可收起或展开；同一浏览器会记住状态。订单页与收藏页采用左侧连续清单、右侧原消息的双栏布局，点击订单标题核对原文；窄屏与手机改为清单在前、原文在后的上下阅读。手机点击“菜单”打开侧边栏，点栏内箭头、遮罩或按 Escape 关闭；键盘 Tab 在展开的导航内循环，关闭后返回“菜单”。日常流程为：本地筛选 → 核对原文 → 收藏候选 → 从固定出发点逐条计算。场景分工见 [通勤计算使用流程](docs/commute-workflow.md)。
 
 1. **登录微信**：在电脑版微信中登录自己的账号，不在本程序填写微信密码。
 2. **确认授权**：阅读页面上方的读取范围，点击“同意并授权”。授权仅本次运行有效，刷新页面保留，重启程序后重新确认。

diff --git a/docs/windows-release.md b/docs/windows-release.md
@@ -1,5 +1,13 @@
 # Windows 运行包
 
+## 新界面与微信兼容测试版 v0.2.4-rc.2
+
+[下载 v0.2.4-rc.2 Windows x64 运行包](https://github.com/Huoxixi/tutor-assistant/releases/download/v0.2.4-rc.2/TutorAssistant-v0.2.4-rc.2-windows-x64.zip)。本版采用深绿导航、紧凑订单列表与宽原消息阅读区；点击订单标题选择，右侧显示完整原文及课酬、授课地点、教员要求的核对摘要，全部来源与字段依据仍可展开查看。收藏按钮显示明确状态，订单页已授权时可从顶部“微信已授权 · 设置”展开检查与撤销操作。
+
+页面适配桌面与窄屏，保留提取与筛选分开的流程、本机数据和手动通勤查询。Windows 运行包已包含新页面；升级时先退出旧程序，完整解压新包，再启动新版本，保留原用户数据目录。
+
+本版继续作为兼容测试版发布，沿用 rc.1 的微信适配；界面验收和隔离打包自检不代表已完成其他电脑微信版本的真实读取验证。稳定版下载仍保留 v0.2.3。
+
 ## 微信4.1+兼容测试版 v0.2.4-rc.1
 
 [下载兼容测试版](https://github.com/Huoxixi/tutor-assistant/releases/tag/v0.2.4-rc.1)。用户授权并点击读取后，优先检查实际界面是否可访问；需要初始化时，已验证文件走原有路径，其他微信4.1+ x64版本按本机DLL特征定位。要求有效PE段边界、只读Qt无障碍类别、邻近代码引用、唯一可写且不可执行的目标，并核对进程加载内容。只调整一个运行时标志；回读和界面确认失败时还原，无法可靠识别时停止。不会套用其他版本的固定地址，也不修改安装文件或全系统读屏设置。
